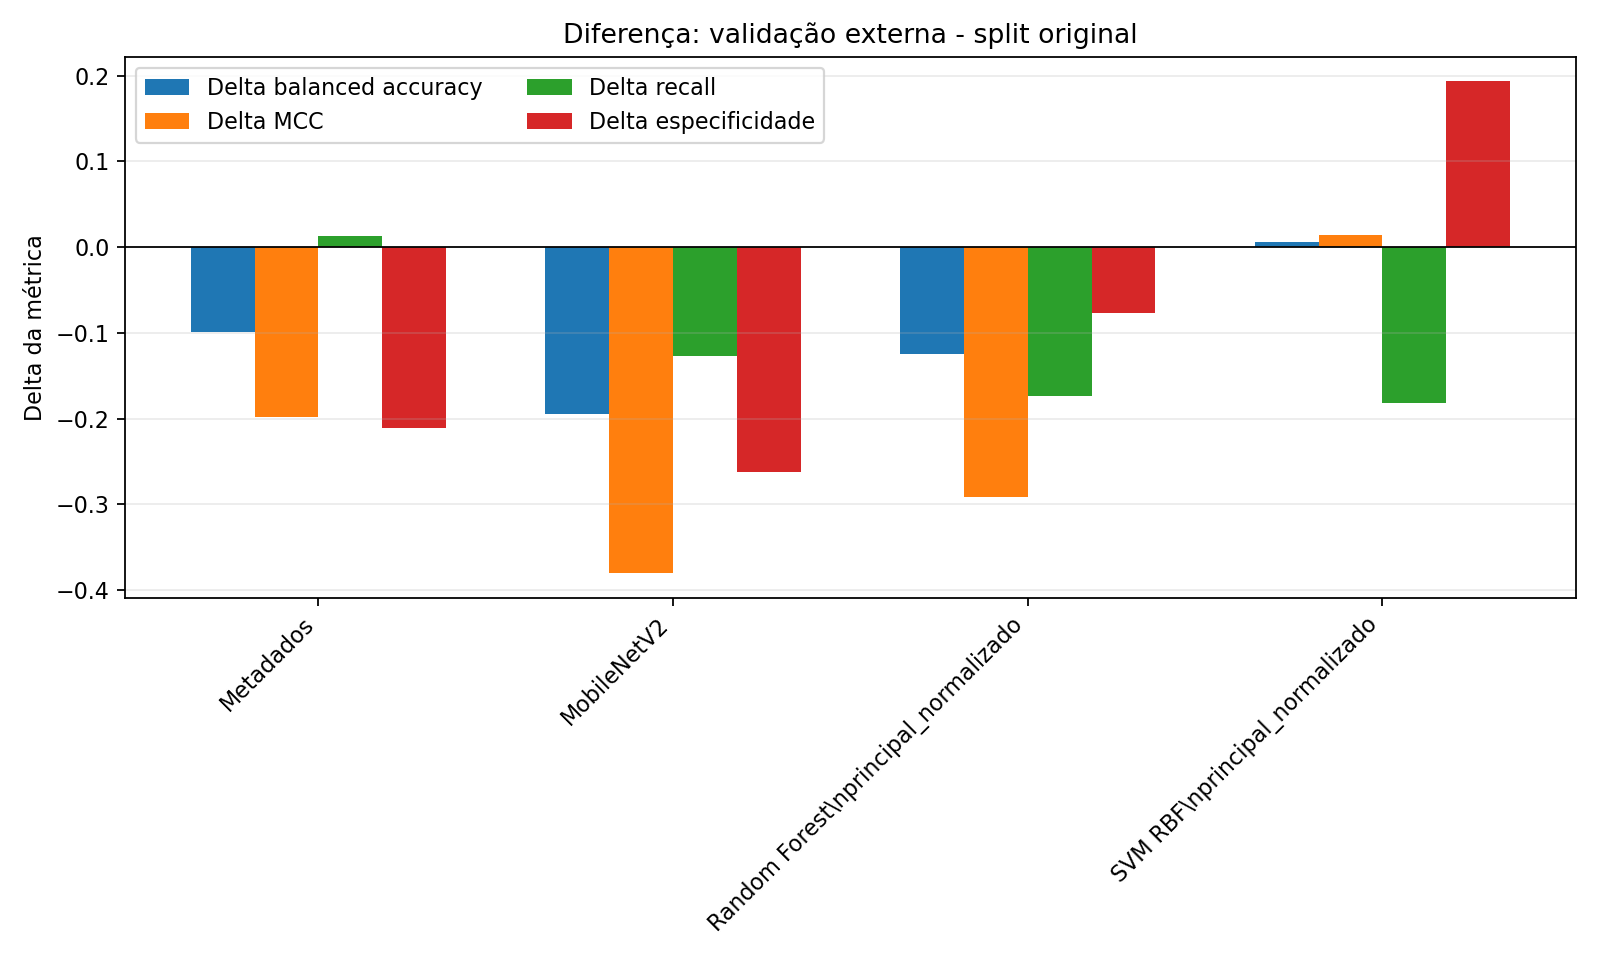
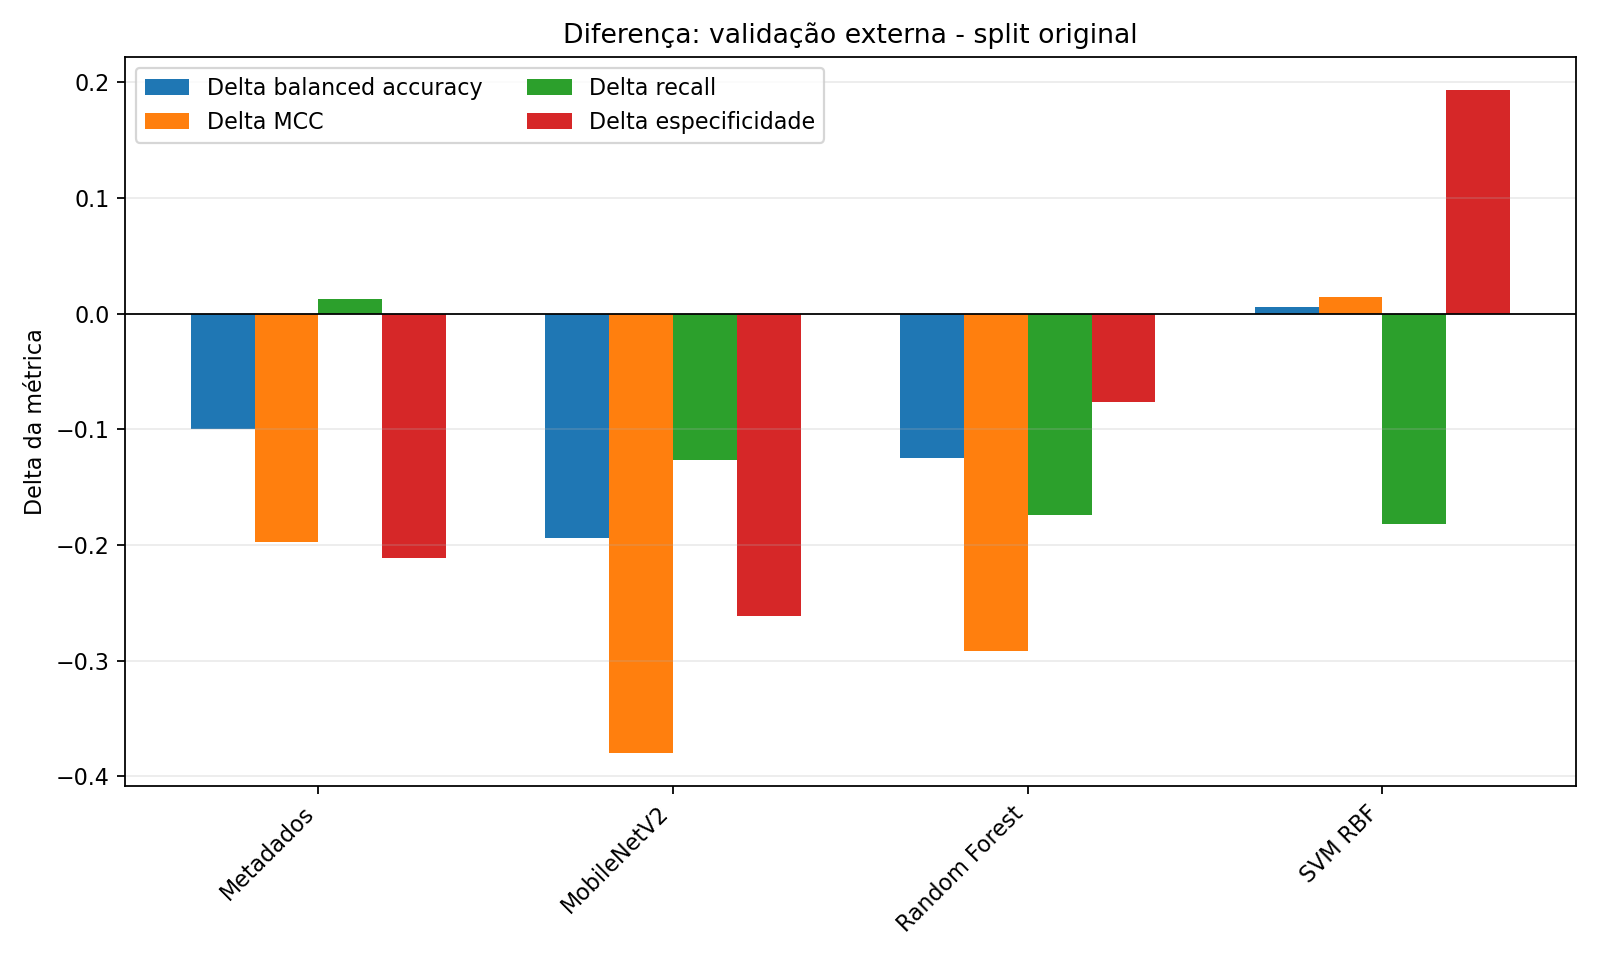
Remove resumo textual do relatorio de classificacao

diff --git a/docs/relatorio_classificacao_cientifica.md b/docs/relatorio_classificacao_cientifica.md
@@ -1,6 +1,6 @@
 # Relatório científico final da classificação
 
-Gerado em: 2026-06-08T13:08:15
+Gerado em: 2026-06-08T13:13:51
 
 ## 1. Objetivo da classificação
 
@@ -223,43 +223,6 @@ Validação externa metadados:
 | macro | teste_threshold_melhor_f1_validacao | NA | NA | NA | NA | NA | 0.500 | 0.000 |
 | micro | teste_threshold_prioridade_recall_validacao | 0.500 | 0.000 | 1.000 | 0.000 | 0.758 | NA | NA |
 | macro | teste_threshold_prioridade_recall_validacao | NA | NA | NA | NA | NA | 0.500 | 0.000 |
-
-Resumo textual do script 27:
-
-```text
-Resumo da comparacao final de classificacao
-================================================
-
-Melhor modelo visual equilibrado:
-mobilenetv2_recortes | cenario=teste_threshold_0_50 | features=nao_aplicavel | recall=0.646 | especificidade=0.634 | F1=0.689 | balanced_accuracy=0.640 | MCC=0.274
-
-Melhor modelo visual com prioridade de recall:
-svm_rbf | cenario=teste_threshold_prioridade_recall_validacao | features=principal_normalizado | recall=1.000 | especificidade=0.000 | F1=0.760 | balanced_accuracy=0.500 | MCC=0.000
-
-Comparacao com baseline sempre contaminada:
-baseline_sempre_contaminada | cenario=teste_baseline_sempre_contaminada | features=nao_aplicavel | recall=1.000 | especificidade=0.000 | F1=0.760 | balanced_accuracy=0.500 | MCC=0.000
-O melhor modelo visual de prioridade de recall ganha 0.000 em especificidade e 0.000 em balanced accuracy contra esse controle.
-
-Comparacao com baseline de metadados:
-metadados_taxas_suavizadas | cenario=teste_threshold_0_50 | features=nao_aplicavel | recall=0.938 | especificidade=0.390 | F1=0.808 | balanced_accuracy=0.664 | MCC=0.409
-Diferenca do melhor visual equilibrado contra metadados: F1=-0.119, balanced_accuracy=-0.024, MCC=-0.135.
-
-Modelos com recall alto e especificidade quase nula:
-svm_rbf | cenario=teste_threshold_0_50 | features=principal_normalizado | recall=1.000 | especificidade=0.000 | F1=0.760 | balanced_accuracy=0.500 | MCC=0.000
-svm_rbf | cenario=teste_threshold_melhor_f1_validacao | features=principal_normalizado | recall=1.000 | especificidade=0.000 | F1=0.760 | balanced_accuracy=0.500 | MCC=0.000
-svm_rbf | cenario=teste_threshold_prioridade_recall_validacao | features=principal_normalizado | recall=1.000 | especificidade=0.000 | F1=0.760 | balanced_accuracy=0.500 | MCC=0.000
-baseline_resnet18_imagem_inteira | cenario=teste_threshold_melhor_f1_validacao | features=nao_aplicavel | recall=0.985 | especificidade=0.000 | F1=0.753 | balanced_accuracy=0.492 | MCC=-0.078
-random_forest | cenario=teste_threshold_melhor_f1_validacao | features=principal_normalizado | recall=0.969 | especificidade=0.073 | F1=0.759 | balanced_accuracy=0.521 | MCC=0.097
-random_forest | cenario=teste_threshold_prioridade_recall_validacao | features=principal_normalizado | recall=0.969 | especificidade=0.073 | F1=0.759 | balanced_accuracy=0.521 | MCC=0.097
-recortes_resnet18 | cenario=teste_threshold_melhor_f1_validacao | features=nao_aplicavel | recall=0.969 | especificidade=0.049 | F1=0.754 | balanced_accuracy=0.509 | MCC=0.046
-recortes_resnet18 | cenario=teste_threshold_prioridade_recall_validacao | features=nao_aplicavel | recall=0.969 | especificidade=0.049 | F1=0.754 | balanced_accuracy=0.509 | MCC=0.046
-
-Notas de interpretacao:
-- O baseline de metadados e diagnostico de vies de lote/tratamento, nao candidato visual para aplicativo.
-- O Random Forest com sensibilidade_todos_atributos e analise de sensibilidade, nao resultado oficial.
-- Resultados com recall alto e especificidade muito baixa podem estar proximos do controle sempre contaminada.
-- Esta comparacao nao prova generalizacao definitiva; o script 28 deve validar por tratamento/lote.
-```
 
 ## 11. Limitações
 
